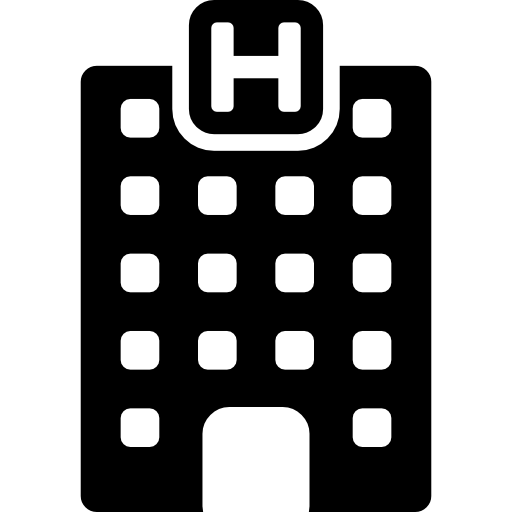
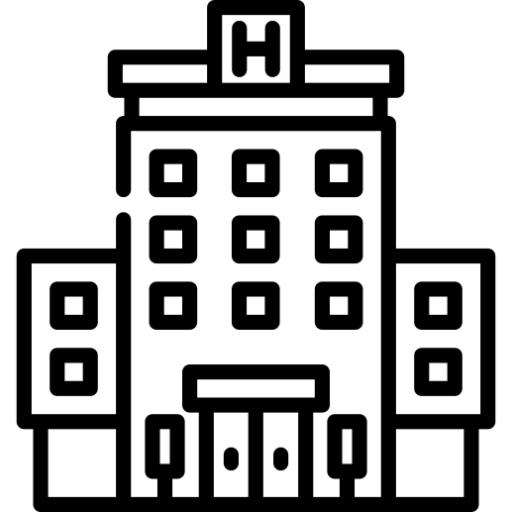
mejora de los paneles

diff --git a/src/main/java/vista/PanelElegirAlojamiento.java b/src/main/java/vista/PanelElegirAlojamiento.java
@@ -3,6 +3,7 @@ package vista;
 import javax.swing.JPanel;
 import javax.swing.SwingConstants;
 import javax.swing.border.LineBorder;
+import javax.swing.border.TitledBorder;
 
 import com.jgoodies.forms.factories.DefaultComponentFactory;
 
@@ -13,6 +14,8 @@ import javax.swing.JLabel;
 import java.awt.Color;
 import java.awt.Dimension;
 import java.awt.Font;
+import java.awt.event.ActionListener;
+import java.awt.event.ActionEvent;
 
 public class PanelElegirAlojamiento extends JPanel {
 
@@ -25,8 +28,6 @@ public class PanelElegirAlojamiento extends JPanel {
 	public JButton btnPerfil;
 	public JButton btnLogin;
 	public JLabel etiqueta ;
-	private JLabel lblNewLabel_1;
-	private JLabel lblNewLabel_2;
 	/**
 	 * Create the panel.
 	 */
@@ -36,40 +37,59 @@ public class PanelElegirAlojamiento extends JPanel {
 		setMaximumSize(new Dimension(800, 600));
 		setLayout(null);
 		
-		 hotel = new JButton("HOTEL");
+		 hotel = new JButton("");
+		 hotel.setIcon(new ImageIcon(PanelElegirAlojamiento.class.getResource("/imagenes/hotel (1).png")));
 		 hotel.setFont(new Font("Dialog", Font.BOLD, 13));
 		 hotel.setName("hotel");
-		hotel.setBounds(147, 343, 224, 70);
+		 hotel.setBounds(142, 260, 224, 227);
 		
 		setLayout(null);
 		
-		JLabel lblNewLabel = new JLabel("");
-		lblNewLabel.setIcon(new ImageIcon("C:\\SaraReto4\\SAMISARETO4\\src\\main\\java\\imagenes\\9.png"));
-		lblNewLabel.setBounds(188, 186, 128, 165);
-		add(lblNewLabel);
+		JLabel lblNewJgoodiesLabel_3 = DefaultComponentFactory.getInstance().createLabel("ESCOGE EL ALOJAMIENTO");
+		lblNewJgoodiesLabel_3.setHorizontalAlignment(SwingConstants.CENTER);
+		lblNewJgoodiesLabel_3.setOpaque(true);
+		lblNewJgoodiesLabel_3.setBackground(Color.LIGHT_GRAY);
+		lblNewJgoodiesLabel_3.setBorder(new TitledBorder(null, "", TitledBorder.LEADING, TitledBorder.TOP, null, null));
+		lblNewJgoodiesLabel_3.setFont(new Font("Dialog", Font.BOLD, 40));
+		lblNewJgoodiesLabel_3.setBounds(142, 42, 824, 78);
+		add(lblNewJgoodiesLabel_3);
 		
-		lblNewLabel_1 = new JLabel("New label");
-		lblNewLabel_1.setIcon(new ImageIcon("C:\\SaraReto4\\SAMISARETO4\\src\\main\\java\\imagenes\\ap.png"));
-		lblNewLabel_1.setBounds(412, 150, 249, 195);
-		add(lblNewLabel_1);
+		JLabel lblNewJgoodiesLabel_2 = DefaultComponentFactory.getInstance().createLabel("APARTAMENTO");
+		lblNewJgoodiesLabel_2.setHorizontalAlignment(SwingConstants.CENTER);
+		lblNewJgoodiesLabel_2.setFont(new Font("Dialog", Font.PLAIN, 18));
+		lblNewJgoodiesLabel_2.setBounds(441, 448, 222, 21);
+		add(lblNewJgoodiesLabel_2);
 		
-		lblNewLabel_2 = new JLabel("");
-		lblNewLabel_2.setIcon(new ImageIcon("C:\\SaraReto4\\SAMISARETO4\\src\\main\\java\\imagenes\\c.png"));
-		lblNewLabel_2.setBounds(768, 198, 128, 134);
-		add(lblNewLabel_2);
+		JLabel lblNewJgoodiesLabel_1 = DefaultComponentFactory.getInstance().createLabel("CASA");
+		lblNewJgoodiesLabel_1.setHorizontalAlignment(SwingConstants.CENTER);
+		lblNewJgoodiesLabel_1.setFont(new Font("Dialog", Font.PLAIN, 18));
+		lblNewJgoodiesLabel_1.setBounds(742, 447, 224, 23);
+		add(lblNewJgoodiesLabel_1);
+		
+		JLabel lblNewJgoodiesLabel = DefaultComponentFactory.getInstance().createLabel("HOTEL");
+		lblNewJgoodiesLabel.setHorizontalAlignment(SwingConstants.CENTER);
+		lblNewJgoodiesLabel.setFont(new Font("Dialog", Font.PLAIN, 18));
+		lblNewJgoodiesLabel.setBounds(142, 447, 224, 23);
+		add(lblNewJgoodiesLabel);
 		add(hotel);
 		
-		 apart = new JButton("APARTAMENTO");
+		 apart = new JButton("");
+		 apart.setIcon(new ImageIcon(PanelElegirAlojamiento.class.getResource("/imagenes/apartamento (1).png")));
 		 apart.setFont(new Font("Dialog", Font.BOLD, 13));
 		 apart.setName("apart");
 		
-		apart.setBounds(436, 344, 224, 70);
+		apart.setBounds(439, 260, 224, 227);
 		add(apart);
 		
-		 casa = new JButton("CASA");
+		 casa = new JButton("");
+		 casa.addActionListener(new ActionListener() {
+		 	public void actionPerformed(ActionEvent arg0) {
+		 	}
+		 });
+		 casa.setIcon(new ImageIcon(PanelElegirAlojamiento.class.getResource("/imagenes/c.png")));
 		 casa.setFont(new Font("Dialog", Font.BOLD, 13));
 		 casa.setName("casa");
-		casa.setBounds(728, 343, 218, 70);
+		casa.setBounds(742, 260, 224, 227);
 		add(casa);
 		
 		btnPerfil = new JButton("Perfil");

diff --git a/src/main/java/controlador/ControladorCasa.java b/src/main/java/controlador/ControladorCasa.java
@@ -12,10 +12,19 @@ import java.text.NumberFormat;
 import java.text.SimpleDateFormat;
 import java.util.ArrayList;
 import java.util.Locale;
+
+import javax.swing.ImageIcon;
 import javax.swing.JButton;
+import javax.swing.JLabel;
 import javax.swing.JOptionPane;
 import modelo.Casa;
 import modelo.Modelo;
+import vista.PanelCasa;
+import vista.PanelDevolucion;
+import vista.PanelEstanciasHotel;
+import vista.PanelHotel;
+import vista.PanelPago;
+import vista.PanelResumen;
 import vista.Ventana;
 
 public class ControladorCasa implements ActionListener {
@@ -104,15 +113,17 @@ public class ControladorCasa implements ActionListener {
 			miVentana.casa.fechaSalida.setCalendar(null);
 			miVentana.casa.fechaSalida.setEnabled(false);
 			resetearServicio();
+			reiniciarImagen();
 			
 			break;
 			
 			case "btnSiguienteCasa":
 				validarCampos();
+				reiniciarImagen();
 				
 			break;	
 
-			case "btnBuscarCasas": filtrarPorUbicacion(miModelo.listaCasas);
+			case "btnBuscarCasas": filtrarPorUbicacion(miModelo.listaCasas); imagen();
 			
 			break;	
 			case "btnLogin" : 
@@ -279,5 +290,80 @@ public class ControladorCasa implements ActionListener {
 		miVentana.casa.chckbxNewCheckBoxSpa.setSelected(false);
 		miVentana.casa.chckbxNewCheckBoxWi.setSelected(false);
 	}
+	
+	
+	/**
+	 * muestra las imagenes en los paneles
+	 */
+	public void imagen() {
+		 String enlace = "";
+		 ImageIcon imagen1;
+	
+		 
+		
+		this.miVentana.casa.repaint();
+		
+
+		
+		  if(miVentana.casa.comboBox.getSelectedItem().toString().equals("MADRID")) {
+			 miVentana.casa.remove(miVentana.casa.etiqueta);
+		
+				enlace="/imagenes/m.jpg";	
+		  }
+		  
+		  if(miVentana.casa.comboBox.getSelectedItem().toString().equals("BARCELONA")) {
+				 miVentana.casa.remove(miVentana.casa.etiqueta);
+			
+				  enlace="/imagenes/b.jpg";
+			}
+		  if(miVentana.casa.comboBox.getSelectedItem().toString().equals("BILBAO")) {
+				 miVentana.casa.remove(miVentana.casa.etiqueta);
+			
+				  enlace="/imagenes/bilbao (1).jpg";	
+			}
+		  if(miVentana.casa.comboBox.getSelectedItem().toString().equals("SEVILLA")) {
+				 miVentana.casa.remove(miVentana.casa.etiqueta);
+			
+					enlace="/imagenes/sev.jpg";
+			}
+		  if(miVentana.casa.comboBox.getSelectedItem().toString().equals("SALAMANCA")) {
+				 miVentana.casa.remove(miVentana.casa.etiqueta);
+				 enlace="/imagenes/salamanca2.jpg";
+						
+			}
+		  if(miVentana.casa.comboBox.getSelectedItem().toString().equals("VALENCIA")) {
+				 miVentana.casa.remove(miVentana.casa.etiqueta);
+			
+				 enlace="/imagenes/valencia.jpg";	
+			}
+		  if(miVentana.casa.comboBox.getSelectedItem().toString().equals("BURGOS")) {
+				 miVentana.casa.remove(miVentana.casa.etiqueta);
+			
+				 enlace="/imagenes/burgos.jpg";
+			}
+		  
+		  
+		  
+			imagen1=new ImageIcon(PanelCasa.class.getResource(enlace));
+			
+		
+			miVentana.casa.etiqueta.setIcon(imagen1);
+		
+			
+
+			this.miVentana.casa.add(miVentana.casa.etiqueta);	 
+		
+	}
+	
+	public void reiniciarImagen() {
+	    miVentana.casa.remove(miVentana.casa.etiqueta);
+		ImageIcon imagen=new ImageIcon(PanelCasa.class.getResource("/imagenes/pattern.jpg"));
+		miVentana.casa.etiqueta = new JLabel(imagen);
+		miVentana.casa.etiqueta.setBounds(-20, -20, 1200, 800);
+		this.miVentana.casa.add(miVentana.casa.etiqueta);
+		miVentana.casa.etiqueta.setVisible(true);
+}
+
+	
 
 }

diff --git a/src/main/java/controlador/ControladorApartamento.java b/src/main/java/controlador/ControladorApartamento.java
@@ -12,10 +12,16 @@ import java.text.NumberFormat;
 import java.text.SimpleDateFormat;
 import java.util.ArrayList;
 import java.util.Locale;
+
+import javax.swing.ImageIcon;
 import javax.swing.JButton;
+import javax.swing.JLabel;
 import javax.swing.JOptionPane;
 import modelo.Apartamento;
 import modelo.Modelo;
+import vista.PanelApartamento;
+import vista.PanelCasa;
+import vista.PanelHotel;
 import vista.Ventana;
 
 public class ControladorApartamento implements ActionListener {
@@ -111,16 +117,16 @@ public class ControladorApartamento implements ActionListener {
 			miVentana.apartamento.fechaEntrada.setCalendar(null);
 			miVentana.apartamento.fechaSalida.setCalendar(null);
 			miVentana.apartamento.fechaSalida.setEnabled(false);
-			
+			reiniciarImagen();
 			break;
 			
 			case "btnSiguienteApartamento": 
 			
 			validarCampos();
-			
+			reiniciarImagen();
 			break;	
 
-			case "btnBuscarApartamentos": filtrarPorUbicacion(miModelo.listaApartamento);
+			case "btnBuscarApartamentos": filtrarPorUbicacion(miModelo.listaApartamento); imagen();
 			
 			break;	
 			case "btnLogin" : 
@@ -283,4 +289,63 @@ public class ControladorApartamento implements ActionListener {
 		miVentana.apartamento.BoxWi.setSelected(false);
 		
  }
+	
+	
+	
+	/**
+	 * muestra las imagenes en los paneles
+	 */
+	public void imagen() {
+		 String enlace = "";
+		 ImageIcon imagen1;
+	
+		 
+		
+		this.miVentana.apartamento.repaint();
+		
+
+		
+		  if(miVentana.apartamento.comboBox.getSelectedItem().toString().equals("MADRID")) {
+			 miVentana.apartamento.remove(miVentana.apartamento.etiqueta);
+		
+				enlace="/imagenes/m.jpg";	
+		  }
+		  if(miVentana.apartamento.comboBox.getSelectedItem().toString().equals("BURGOS")) {
+				 miVentana.apartamento.remove(miVentana.apartamento.etiqueta);
+			
+					enlace="/imagenes/burgos.jpg";	
+			  }
+		  if(miVentana.apartamento.comboBox.getSelectedItem().toString().equals("BARCELONA")) {
+				 miVentana.apartamento.remove(miVentana.apartamento.etiqueta);
+			
+					enlace="/imagenes/barcelona.jpg";	
+			  }
+		  if(miVentana.apartamento.comboBox.getSelectedItem().toString().equals("SALAMANCA")) {
+				 miVentana.apartamento.remove(miVentana.apartamento.etiqueta);
+			
+					enlace="/imagenes/salamanca2.jpg";	
+			  }
+		  
+		 
+		  
+		  
+			imagen1=new ImageIcon(PanelApartamento.class.getResource(enlace));
+			
+		
+			miVentana.apartamento.etiqueta.setIcon(imagen1);
+		
+			
+
+			this.miVentana.apartamento.add(miVentana.apartamento.etiqueta);	 
+		
+	}
+	
+	public void reiniciarImagen() {
+	    miVentana.apartamento.remove(miVentana.apartamento.etiqueta);
+		ImageIcon imagen=new ImageIcon(PanelApartamento.class.getResource("/imagenes/pattern.jpg"));
+		miVentana.apartamento.etiqueta = new JLabel(imagen);
+		miVentana.apartamento.etiqueta.setBounds(-20, -20, 1200, 800);
+		this.miVentana.apartamento.add(miVentana.apartamento.etiqueta);
+		miVentana.apartamento.etiqueta.setVisible(true);
+}
 }

diff --git a/src/main/java/vista/PanelApartamento.java b/src/main/java/vista/PanelApartamento.java
@@ -178,10 +178,10 @@ public class PanelApartamento extends JPanel {
 		 BoxWi.setBounds(60, 211, 97, 23);
 		 add(BoxWi);
 		
-		lblEncuentreSuApartamento = new JLabel("Encuentre su Apartamento :");
+		lblEncuentreSuApartamento = new JLabel("Encuentre su Apartamento deseado:");
 		lblEncuentreSuApartamento.setHorizontalAlignment(SwingConstants.CENTER);
 		lblEncuentreSuApartamento.setOpaque(true);
-		lblEncuentreSuApartamento.setFont(new Font("Dialog", Font.BOLD, 40));
+		lblEncuentreSuApartamento.setFont(new Font("Dialog", Font.BOLD, 38));
 		lblEncuentreSuApartamento.setBorder(new TitledBorder(null, "", TitledBorder.LEADING, TitledBorder.TOP, null, null));
 		lblEncuentreSuApartamento.setBackground(Color.LIGHT_GRAY);
 		lblEncuentreSuApartamento.setBounds(209, 23, 701, 78);
@@ -193,6 +193,8 @@ public class PanelApartamento extends JPanel {
 		label.setBorder(new TitledBorder(null, "Servicios ", TitledBorder.LEADING, TitledBorder.TOP, null, new Color(59, 59, 59)));
 		label.setBounds(44, 183, 126, 320);
 		add(label);
+		
+		
 		etiqueta = new JLabel(imagen);
 		etiqueta.setBounds(-20, -20, 1200, 800);
 		add(etiqueta);

diff --git a/src/main/java/controlador/ControladorHotel.java b/src/main/java/controlador/ControladorHotel.java
@@ -117,6 +117,7 @@ public class ControladorHotel implements ActionListener {
 
 					case "btnCancelarHotel": funciones.cambiarDePanel(miVentana.hotel, miVentana.alojamiento);
 					resetear();
+					reiniciarImagen();
 					break;
 					
 					case "btnSiguienteHotel": 	
@@ -399,7 +400,7 @@ public class ControladorHotel implements ActionListener {
 				
 				 if(miVentana.hotel.comboBox.getSelectedItem().toString().equals("BARCELONA")) {
 					 miVentana.hotel.remove(miVentana.hotel.etiqueta);
-					//miVentana.estanciasHotel.remove(miVentana.estanciasHotel.etiqueta);
+					// miVentana.estanciasHotel.remove(miVentana.estanciasHotel.etiqueta);
 					// miVentana.resumen.remove(miVentana.resumen.etiqueta);
 					 //miVentana.pago.remove(miVentana.pago.etiqueta);
 					// miVentana.devolucion.remove(miVentana.devolucion.etiqueta);

diff --git a/src/main/java/vista/PanelPago.java b/src/main/java/vista/PanelPago.java
@@ -50,7 +50,6 @@ public class PanelPago extends JPanel {
 	public JButton btn005;
 	public JButton btn002; 
 	public JButton btn001;
-	public JCheckBox condiciones;
 	public JButton[] arrayBtn= new JButton[15];
 	public JLabel etiqueta ;
 	public JTextField textCodigo;
@@ -259,11 +258,6 @@ public class PanelPago extends JPanel {
 		
 
 		ImageIcon imagen=new ImageIcon(PanelLogin.class.getResource("/imagenes/pattern.jpg"));
-		
-		 condiciones = new JCheckBox("He le\u00EDdo y acepto los t\u00E9rminos y condiciones.");
-	
-		condiciones.setBounds(478, 594, 336, 23);
-		add(condiciones);
 		etiqueta = new JLabel(imagen);
 		etiqueta.setBounds(0, -58, 1075, 773);
 		add(etiqueta);

diff --git a/src/main/java/controlador/ControladorPago.java b/src/main/java/controlador/ControladorPago.java
@@ -212,7 +212,6 @@ public class ControladorPago implements ActionListener {
 				break;
 										 
 			case "btnSiguientePago": funciones.cambiarDePanel(miVentana.pago, miVentana.devolucion); 
-				//Calcular cambios despues del pago
 			if (miControlador.miControladorElegir.elegido==1) {
 				try {	
 				
